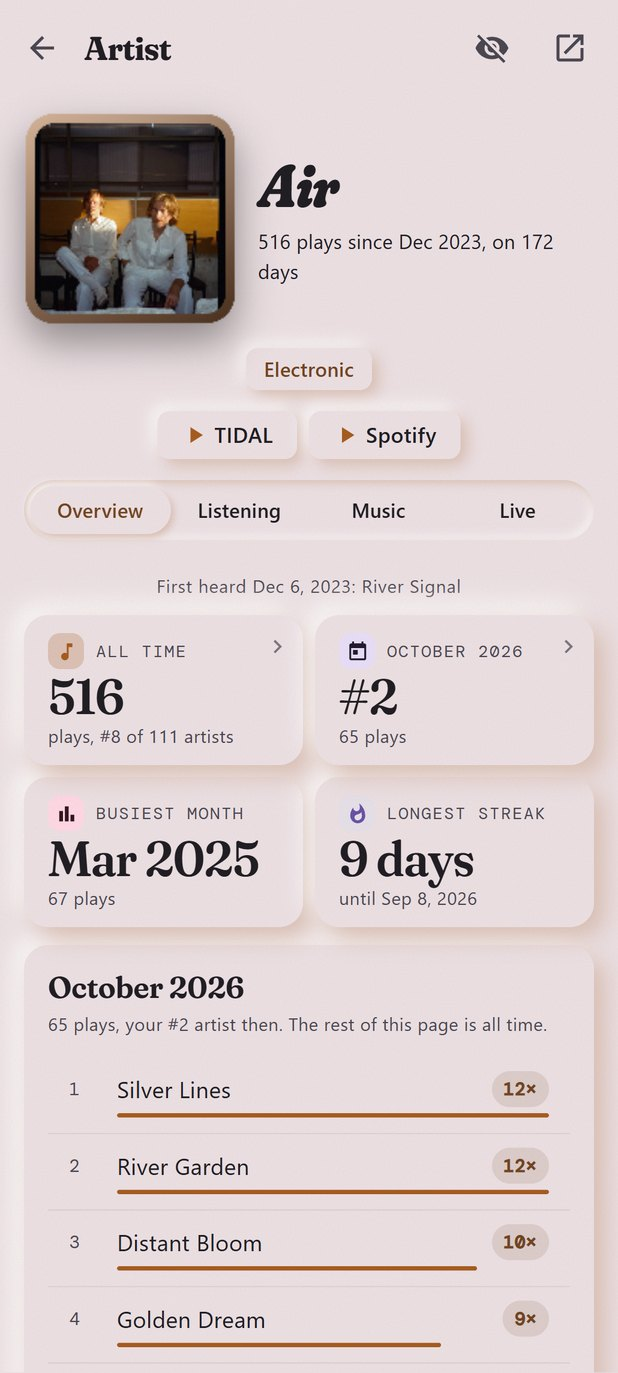
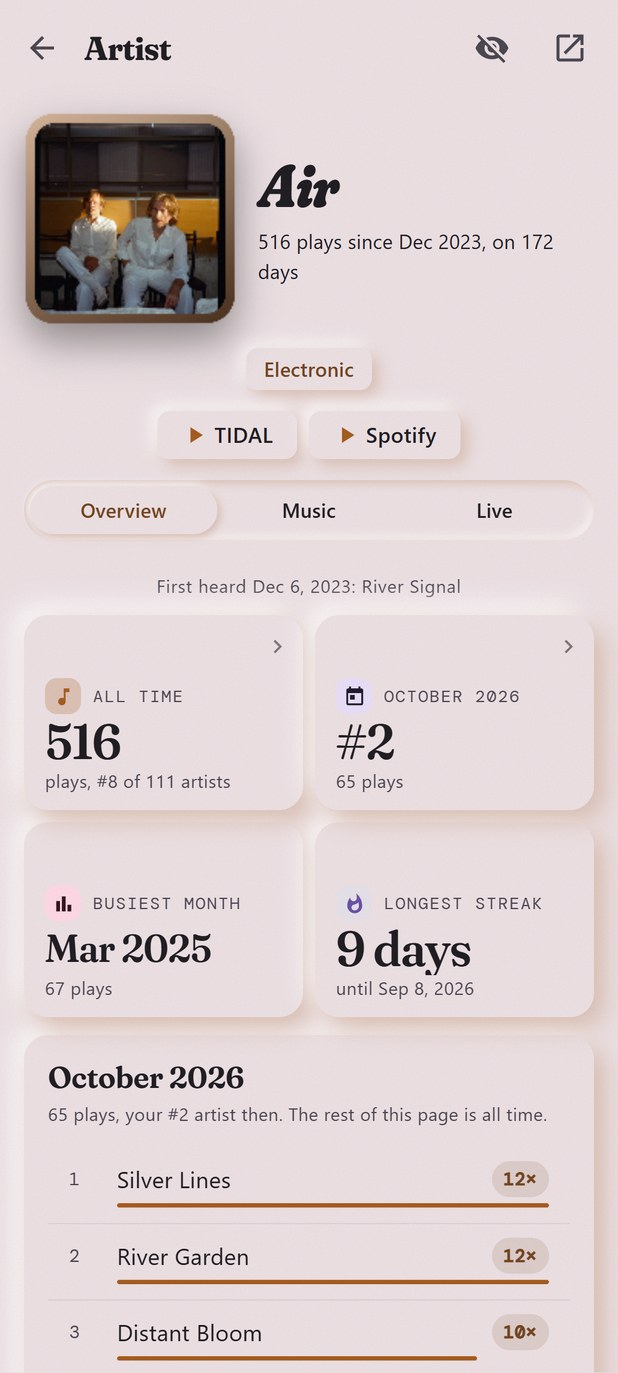
0.71: steadier tab swipes, top tracks as a chart, covers on playlists
- Tab swipes on artist, album and genre pages: the row of tabs keeps its
  own layer instead of getting one at each swipe and losing it on
  landing; the hidden tabs' covers load and decode ahead of time; shelf
  covers in tabs no longer skip their paint; the tabs no longer flip
  between stuck and not when a tab lands (the glass pill blinked).
- Top tracks on an artist page look like Your chart, each song with its
  album's cover; five show, Show all opens the rest.
- Playlist songs show their album's cover, or the artist's photo for
  songs not in your history, and the first four covers make the
  playlist's picture.
- README: the banner shows an artist page in place of the atlas; the
  artist screenshot has the new tabs.

diff --git a/app/src/main/assets/ui/app.js b/app/src/main/assets/ui/app.js
@@ -4118,6 +4118,7 @@ function renderGenre() {
   morph($('#genreBody'), h);
   tint($('#genreBody'), (((g.top || {}).albums || []).find((x) => x.cover) || {}).cover || '', (g.family ? g.family.label : g.label) + g.label);
   syncPageTabs($('#genrePage'));
+  warmTabs($('#genrePage'));
 }
 
 /**
@@ -4282,6 +4283,7 @@ function renderAlbum() {
   keepHolo($('#albumBody'), h);
   tint($('#albumBody'), cover, a.title + a.artist);
   syncPageTabs($('#albumPage'));
+  warmTabs($('#albumPage'));
 }
 
 // ---- album and song pages: the album's shape for you, when it clicked, where a song sits, its runs on repeat ----
@@ -5468,7 +5470,10 @@ function renderPlaylist() {
   if (p.loading) { body.innerHTML = '<div class="lin inline indet"><i></i></div>'; return; }
   if (p.empty || !p.tracks || !p.tracks.length) { body.innerHTML = `<div class="empty">${icon('playlist', 'i big')}<p>No songs for this playlist yet.</p></div>`; return; }
   const about = PLNAME ? PLNAME.note : p.note;
-  body.innerHTML = `<div class="pl-head"><div class="pl-icon">${icon('playlist')}</div><div class="pl-txt" id="plName"><h1>${esc(plTitle(p))}</h1><p>${about ? `${esc(about)}, ` : ''}${plural(p.tracks.length, 'song')}</p></div>
+  // Its first four different covers as the playlist's picture, once it has that many.
+  const pics = [...new Set(p.tracks.map((t) => t.cover).filter(Boolean))].slice(0, 4);
+  const pic = pics.length === 4 ? `<div class="pl-icon pl-mosaic">${pics.map((c) => `<img src="${esc(c)}" alt="" decoding="async">`).join('')}</div>` : `<div class="pl-icon">${icon('playlist')}</div>`;
+  body.innerHTML = `<div class="pl-head">${pic}<div class="pl-txt" id="plName"><h1>${esc(plTitle(p))}</h1><p>${about ? `${esc(about)}, ` : ''}${plural(p.tracks.length, 'song')}</p></div>
       <button class="icon-btn pl-edit" id="plEdit" aria-label="Name and description">${icon('edit')}</button></div>
     <div class="btn-row">
       <button class="btn filled" id="plCopy">${icon('copy')}Copy list</button>
@@ -5486,7 +5491,7 @@ function renderPlaylist() {
       </ol>
       <div class="btn-row"><button class="btn text small link" data-url="https://www.tunemymusic.com/transfer">TuneMyMusic</button><button class="btn text small link" data-url="https://soundiiz.com/">Soundiiz</button></div>
     </div>
-    <div class="rank">${p.tracks.map((t, i) => `<button class="r" ${trackAttrs(t.artist, t.title, { album: t.album })}><span class="n">${i + 1}</span><span class="t"><b>${esc(t.title)}</b><small>${esc(t.artist)}${t.album ? `, ${esc(t.album)}` : ''}${t.note ? `, ${esc(t.note)}` : ''}</small></span>${t.source !== 'new' ? `<span class="v cnt">${t.plays}×</span>` : ['discover', 'artistBest', 'newReleases'].includes(p.kind) ? '' : '<span class="v new-tag">new</span>'}</button>`).join('')}</div>
+    <div class="rank">${p.tracks.map((t, i) => `<button class="r with-cover pl-r" ${trackAttrs(t.artist, t.title, { album: t.album, cover: t.cover })}><span class="n">${i + 1}</span>${coverHtml(t.cover, t.album || t.title, t.artist, 'tiny')}<span class="t"><b>${esc(t.title)}</b><small>${esc(t.artist)}${t.album ? `, ${esc(t.album)}` : ''}${t.note ? `, ${esc(t.note)}` : ''}</small></span>${t.source !== 'new' ? `<span class="v cnt">${t.plays}×</span>` : ['discover', 'artistBest', 'newReleases'].includes(p.kind) ? '' : '<span class="v new-tag">new</span>'}</button>`).join('')}</div>
     ${p.kind === 'genre' && p.tracks.some((t) => t.source === 'new') ? '<p class="hint">"New" songs are ones Last.fm finds similar to your favorites here, that you haven\'t played.</p>' : ''}
     ${p.kind === 'discover' ? '<p class="hint">Each artist\'s best-known songs on Last.fm, two at most of each. "Make another" picks other artists and songs; the week\'s mix stays until Monday.</p>' : ''}
     ${p.kind === 'setlist' ? `<p class="hint">"New" are songs you haven't played yet. Setlist from <button class="link-inline" data-url="${esc(p.url || 'https://www.setlist.fm/')}">setlist.fm</button>.</p>` : ''}`;
@@ -5774,10 +5779,13 @@ function openLivePlaylist(i) {
 // ---- one artist ----
 
 let ARTIST = null;
+/** Whether an artist page shows all their top tracks (else five); back to five for the next artist. */
+let artistTopOpen = false;
 function openArtist(name) {
   if (!name) return;
   openPage('artistPage');
   ARTIST = { name, loading: true, req: ++REQ };
+  artistTopOpen = false;
   requestDiscography(name);
   requestLive(name);
   $('#artistBody').innerHTML = `<div class="empty"><p>Looking up ${esc(name)}…</p></div>`;
@@ -5843,7 +5851,12 @@ function renderArtist() {
   }
   P.tracks = '';
   if (a.tracks.length) {
-    P.tracks = `<div class="viz"><h2>Top tracks</h2><span class="sub">Hold a song to hide it from your stats or fix its name.</span><div class="rank">${a.tracks.slice(0, topN('artist')).map((x, i) => `<button class="r" ${trackAttrs(a.name, x.title)}><span class="n">${i + 1}</span><span class="t"><b>${esc(x.title)}</b></span><span class="v cnt">${num(x.plays)}×</span></button>`).join('')}</div>${topMore('artist', a.tracks.length)}</div>`;
+    // Like Your chart on Stats, with each song's album cover; five first, all of them a tap away.
+    const n = artistTopOpen ? a.tracks.length : 5;
+    const rows = a.tracks.slice(0, n).map((x, i) => `<button class="ch-r plain${i === 0 ? ' one' : ''}" ${trackAttrs(a.name, x.title, { album: x.album, cover: x.cover })}><span class="ch-n">${i + 1}</span>${coverHtml(x.cover, x.album || x.title, a.name)}
+      <span class="t"><b>${esc(x.title)}</b><small>${x.album ? `${esc(x.album)}, ` : ''}${num(x.plays)}×</small></span></button>`).join('');
+    const more = a.tracks.length > 5 ? `<div class="btn-row top-more"><button class="btn text small" data-ttoggle>${artistTopOpen ? 'Show top 5' : `Show all ${a.tracks.length}`}</button></div>` : '';
+    P.tracks = `<div class="viz"><h2>Top tracks</h2><span class="sub">Hold a song to hide it from your stats or fix its name.</span><div class="ch-rows">${rows}</div>${more}</div>`;
   }
   P.concerts = concertsBlock(a.concerts);
   P.live = `<div id="liveSlot">${liveHtml(a.name)}</div>`;
@@ -5857,6 +5870,7 @@ function renderArtist() {
   fitText($('#artistBody .fit'));
   drawRecords();
   syncPageTabs($('#artistPage'));
+  warmTabs($('#artistPage'));
 }
 
 // ---- long pages in tabs (Settings → Look): artist, album and genre pages, Stats and Explore; or each as one long page ----
@@ -6054,6 +6068,21 @@ function tabSwipe(host) {
   host.addEventListener('click', (e) => { if (Date.now() - swipedAt < 400) { e.stopPropagation(); e.preventDefault(); } }, true);
 }
 
+/**
+ * The tabs beside the open one wait hidden, and a hidden picture is neither loaded nor decoded: it would pop in
+ * a frame late as a swipe shows it. So their pictures load and decode now, while nobody looks.
+ */
+function warmTabs(host) {
+  const imgs = host ? host.querySelectorAll('.atab-body:not([data-open]) img:not([data-warm])') : [];
+  if (!imgs.length) return;
+  const go = () => imgs.forEach((i) => {
+    i.dataset.warm = '1';
+    i.loading = 'eager';
+    if (i.decode) i.decode().catch(() => {});
+  });
+  if (window.requestIdleCallback) requestIdleCallback(go, { timeout: 800 }); else setTimeout(go, 200);
+}
+
 /** The tabs get the page's color behind them once they stick to the top. */
 function syncPageTabs(host) {
   const bar = host.querySelector('.atabs'), anchor = host.querySelector('.tab-anchor');
@@ -6062,7 +6091,8 @@ function syncPageTabs(host) {
   const top = parseFloat(getComputedStyle(bar).top) || 0;
   const sc = hostScroller(host);
   const from = sc === document.scrollingElement ? 0 : sc.getBoundingClientRect().top;
-  bar.classList.toggle('stuck', anchor.getBoundingClientRect().top - from < top);
+  // A pixel of slack: a tab change scrolls to exactly where they stick, and rounding flipped them back and forth.
+  bar.classList.toggle('stuck', anchor.getBoundingClientRect().top - from < top + 1);
 }
 
 // ---- tidy up: videos, app sounds and clips out of the stats ----
@@ -7713,6 +7743,7 @@ function build() {
     const gn = e.target.closest('[data-genre]');
     if (gn) { openGenre(gn.dataset.genre, gn.dataset.glabel); return; }
     if (e.target.closest('[data-genremore]')) { openGenreMore(); return; }
+    if (e.target.closest('[data-ttoggle]')) { artistTopOpen = !artistTopOpen; renderArtist(); return; }
     const tn = e.target.closest('[data-topn]');
     if (tn) { const [k, n] = tn.dataset.topn.split(':'); setTopN(k, +n); return; }
     if (e.target.closest('[data-genremap]')) {

diff --git a/app/src/main/java/app/recordshelf/Core.kt b/app/src/main/java/app/recordshelf/Core.kt
@@ -1826,7 +1826,7 @@ object Core {
             val list = app.recordshelf.history.PlaylistMix.mix(core, near, fresh, size, mode, seed)
             push("onPlaylist") {
                 JSONObject().put("kind", "genre").put("key", key).put("label", label).put("size", size).put("mode", mode).put("seed", seed)
-                    .put("name", "$label mix").put("note", note).put("tracks", JSONArray(list.map { it.toJson() }))
+                    .put("name", "$label mix").put("note", note).put("tracks", pickJson(list))
             }
         }
         val c = lastfm()
@@ -2358,7 +2358,7 @@ object Core {
         push("onPlaylist") {
             JSONObject().put("kind", "discover").put("seed", asked).put("size", size).put("reach", prefs.discoverReach)
                 .put("name", "Discovery mix").put("note", "Songs you haven't played, by artists your listening points to")
-                .put("tracks", JSONArray(list.map { it.toJson() }))
+                .put("tracks", pickJson(list))
         }
     }
 
@@ -2370,7 +2370,7 @@ object Core {
         val songs = topsOf(lastfm(), name).orEmpty()
         push("onPlaylist") {
             JSONObject().put("kind", "artistBest").put("artist", name).put("name", "Best of $name").put("note", "Their most played songs on Last.fm")
-                .put("tracks", JSONArray(songs.map { Pick(name, it, "", 0, "new").toJson() }))
+                .put("tracks", pickJson(songs.map { Pick(name, it, "", 0, "new") }))
         }
     }
 
@@ -2385,7 +2385,7 @@ object Core {
         val per = out.mapNotNull { r ->
             try {
                 val a = deezer.album(r.optLong("id"))
-                a.tracks.map { (t, _) -> Pick(r.optString("artist"), t, a.title, 0, "new") }
+                a.tracks.map { (t, _) -> Pick(r.optString("artist"), t, a.title, 0, "new", r.optString("cover").ifEmpty { a.cover }) }
             } catch (_: Exception) {
                 null
             }.also { Thread.sleep(120) } // Deezer allows 50 requests in 5 seconds
@@ -2394,8 +2394,14 @@ object Core {
         push("onPlaylist") {
             if (tracks.isEmpty()) JSONObject().put("kind", "newReleases").put("empty", true)
             else JSONObject().put("kind", "newReleases").put("name", "New releases").put("note", "What your artists put out lately")
-                .put("tracks", JSONArray(tracks.map { it.toJson() }))
+                .put("tracks", pickJson(tracks))
         }
+    }
+
+    /** Playlist songs as JSON, each with a picture: its album's cover, or else its artist's photo if one is known. */
+    private fun pickJson(list: List<Pick>): JSONArray {
+        val images = db.images()
+        return JSONArray(list.map { p -> p.toJson().also { if (p.cover.isEmpty()) it.put("cover", images[Stats.photoKey(p.artist)].orEmpty()) } })
     }
 
     /** Computes and pushes the stats for [statsRange]. On [statsExec]. */

diff --git a/app/src/main/assets/ui/app.css b/app/src/main/assets/ui/app.css
@@ -452,6 +452,8 @@ button.tile { position: relative; display: block; width: 100%; text-align: left;
 .rank .bar { grid-column: 2 / 4; height: 3px; margin: 0; background: transparent; }
 .rank .bar i { background: var(--md-primary); transition: none; }
 .rank .r.with-cover { grid-template-columns: 40px 1fr auto; }
+/* A playlist's songs: number, cover, title. */
+.rank .r.pl-r { grid-template-columns: 22px 40px 1fr auto; }
 .ranks .r { grid-template-columns: 34px 1fr auto; }
 .ranks .r.rc { grid-template-columns: 34px 40px 1fr auto; }
 .ranks .r.rc .bar { grid-column: 3 / 5; }
@@ -475,8 +477,10 @@ button.tile { position: relative; display: block; width: 100%; text-align: left;
 /* Every tab side by side, a page width apart, clipped by the screen's edges and by the open one's height. The others
    stay hidden until a finger touches down ("live"); the open one alone sets the page's length. */
 .atab-clip { margin: 0 -16px; padding: 0 16px; overflow: clip; overflow-clip-margin: 24px; }
-.atab-track { position: relative; }
-.atab-track.live { will-change: transform; }
+/* Its own layer for good: made and dropped at each swipe, the whole page was painted again twice (a blink). */
+.atab-track { position: relative; will-change: transform; }
+/* Covers on the shelf skip their paint while off screen; in a tab coming in that showed as a blank frame. */
+.atab-body .rec { content-visibility: visible; }
 .atab-body:not([data-open]) { position: absolute; top: 0; left: calc(var(--i) * (100% + 32px)); width: 100%; visibility: hidden; pointer-events: none; }
 .atab-track.live > .atab-body { visibility: visible; }
 /* Explore as rows: each list one sideways row, the two mixes side by side at the top. */
@@ -968,6 +972,8 @@ button.xlist-year h3 { display: flex; align-items: baseline; gap: 10px; margin: 
 .pl-head { display: flex; gap: 16px; align-items: center; margin: 12px 4px 16px; }
 .pl-icon { flex: none; width: 64px; height: 64px; border-radius: 16px; display: grid; place-items: center; background: var(--md-primary-container); color: var(--md-on-primary-container); }
 .pl-icon .i { width: 32px; height: 32px; }
+.pl-mosaic { grid-template-columns: 1fr 1fr; place-items: stretch; overflow: hidden; box-shadow: 0 6px 16px rgba(0, 0, 0, .25); }
+.pl-mosaic img { width: 100%; height: 100%; object-fit: cover; display: block; }
 .pl-head h1 { margin: 0; font: 700 24px/30px var(--font); overflow-wrap: anywhere; }
 .pl-head p { margin: 4px 0 0; color: var(--md-on-surface-variant); font-size: 13px; line-height: 18px; }
 #playlistBody > .btn-row { margin: 0 0 12px; }

diff --git a/app/src/main/java/app/recordshelf/history/Stats.kt b/app/src/main/java/app/recordshelf/history/Stats.kt
@@ -914,7 +914,10 @@ class Stats(
                 near.merge(t, 1, Int::plus)
             }
         }
-        fun pick(t: Int, source: String) = Pick(h.artistNames[h.trackArtist[t]], h.trackTitles[t], trackAlbum[t].let { if (it >= 0) h.albumTitles[it] else "" }, trackPlays[t], source)
+        fun pick(t: Int, source: String) = Pick(
+            h.artistNames[h.trackArtist[t]], h.trackTitles[t], trackAlbum[t].let { if (it >= 0) h.albumTitles[it] else "" }, trackPlays[t], source,
+            trackAlbum[t].let { if (it >= 0) cover(it) else "" },
+        )
         return core.map { pick(it, "core") } to
             near.entries.filter { it.value >= 2 }.sortedWith(compareByDescending<Map.Entry<Int, Int>> { it.value }.thenBy { it.key }).take(max).map { pick(it.key, "near") }
     }
@@ -2040,7 +2043,10 @@ class Stats(
             .put("hours", JSONArray(hours.toList()))
             .put("streak", best).put("streakEnd", dayStart(bestEnd) * 1000)
             .put("range", JSONObject().put("id", r.id).put("kind", r.kind).put("label", r.label).put("from", r.from).put("plays", inRange[a]).put("rank", rank))
-            .put("tracks", JSONArray(tracks.entries.sortedByDescending { it.value }.take(TOP_MAX).map { JSONObject().put("title", h.trackTitles[it.key]).put("plays", it.value) }))
+            .put("tracks", JSONArray(tracks.entries.sortedByDescending { it.value }.take(TOP_MAX).map {
+                JSONObject().put("title", h.trackTitles[it.key]).put("plays", it.value).put("album", albumOf(it.key))
+                    .put("cover", trackAlbum[it.key].let { al -> if (al >= 0) cover(al) else "" })
+            }))
             .put("albums", JSONArray(albums.entries.sortedByDescending { it.value }.take(5).map { JSONObject().put("title", h.albumTitles[it.key]).put("plays", it.value).put("cover", cover(it.key)).put("owned", owned(it.key) != null) }))
             .put("owned", JSONArray(owned.map { JSONObject().put("id", it.releaseId).put("title", it.title).put("artist", it.artist).put("cover", it.cover.ifEmpty { it.thumb }).put("year", it.year) }))
             .put("genres", JSONArray(genres.of(h.artistNames[a], null).first.map { Genres.label(it) }))

diff --git a/app/src/main/java/app/recordshelf/history/PlaylistMix.kt b/app/src/main/java/app/recordshelf/history/PlaylistMix.kt
@@ -9,10 +9,10 @@ import kotlin.random.Random
  * A song for a mixed playlist and where it came from: your favorites in a genre ("core"), songs
  * you often played right next to them ("near"), or songs you never played ("new").
  */
-data class Pick(val artist: String, val title: String, val album: String, val plays: Int, val source: String) {
+data class Pick(val artist: String, val title: String, val album: String, val plays: Int, val source: String, val cover: String = "") {
     val key get() = Text.norm(artist) + "\u0000" + Text.normLoose(title)
 
-    fun toJson(): JSONObject = JSONObject().put("artist", artist).put("title", title).put("album", album).put("plays", plays).put("source", source)
+    fun toJson(): JSONObject = JSONObject().put("artist", artist).put("title", title).put("album", album).put("plays", plays).put("source", source).put("cover", cover)
 }
 
 /**

diff --git a/docs/GUIDE.md b/docs/GUIDE.md
@@ -423,15 +423,18 @@ These lists collect listening that never makes the top lists:
 - On this day shows what you played on today's date in earlier years.
 
 Each list can become a playlist of up to 40 songs. So can Crate dig (songs you played a few times
-and forgot, shuffled anew each time) and Playlist of the top 40, under Top 10 on the Stats tab. On
-a playlist, Copy list puts it on the clipboard as "Artist - Title" lines, which you can paste into
+and forgot, shuffled anew each time) and Playlist of the top 40, under Top 10 on the Stats tab. A
+playlist shows each song with its album's cover (or the artist's photo for songs you haven't played),
+and its first four covers make its picture. On a playlist, Copy list puts it on the clipboard as "Artist - Title" lines, which you can paste into
 TuneMyMusic or Soundiiz (import from text) to send it to TIDAL. Share hands the playlist to any
 app. The pencil next to a playlist's name lets you give it your own name and description; TIDAL
 gets both, and Share puts them above the songs.
 
 Tap any artist (in the lists, the phases, the record, or on a record page) for their own page:
 plays, rank, first play, busiest month, longest streak, plays per month, time of day, their plays
-lit up on your record, top tracks and albums, and the records of theirs on your shelf.
+lit up on your record, top tracks, their discography, and the records of theirs on your shelf. Top
+tracks look like Your chart on the Stats tab, each song with its album's cover; the first five show,
+and Show all opens the rest.
 
 #### Tidy up: videos and app sounds
 

diff --git a/README.md b/README.md
@@ -2,7 +2,7 @@
 
 An Android app for your record shelf and everything else you listen to.
 
-![Heavy Rotation: the shelf, a record, your month on a record, the musical atlas and now playing](docs/screenshots/banner.jpg)
+![Heavy Rotation: the shelf, a record, your month on a record, an artist and now playing](docs/screenshots/banner.jpg)
 
 Heavy Rotation shows your [Discogs](https://www.discogs.com) collection as a shelf of covers and
 scrobbles the records you play to [Last.fm](https://www.last.fm). It scrobbles what plays on your
